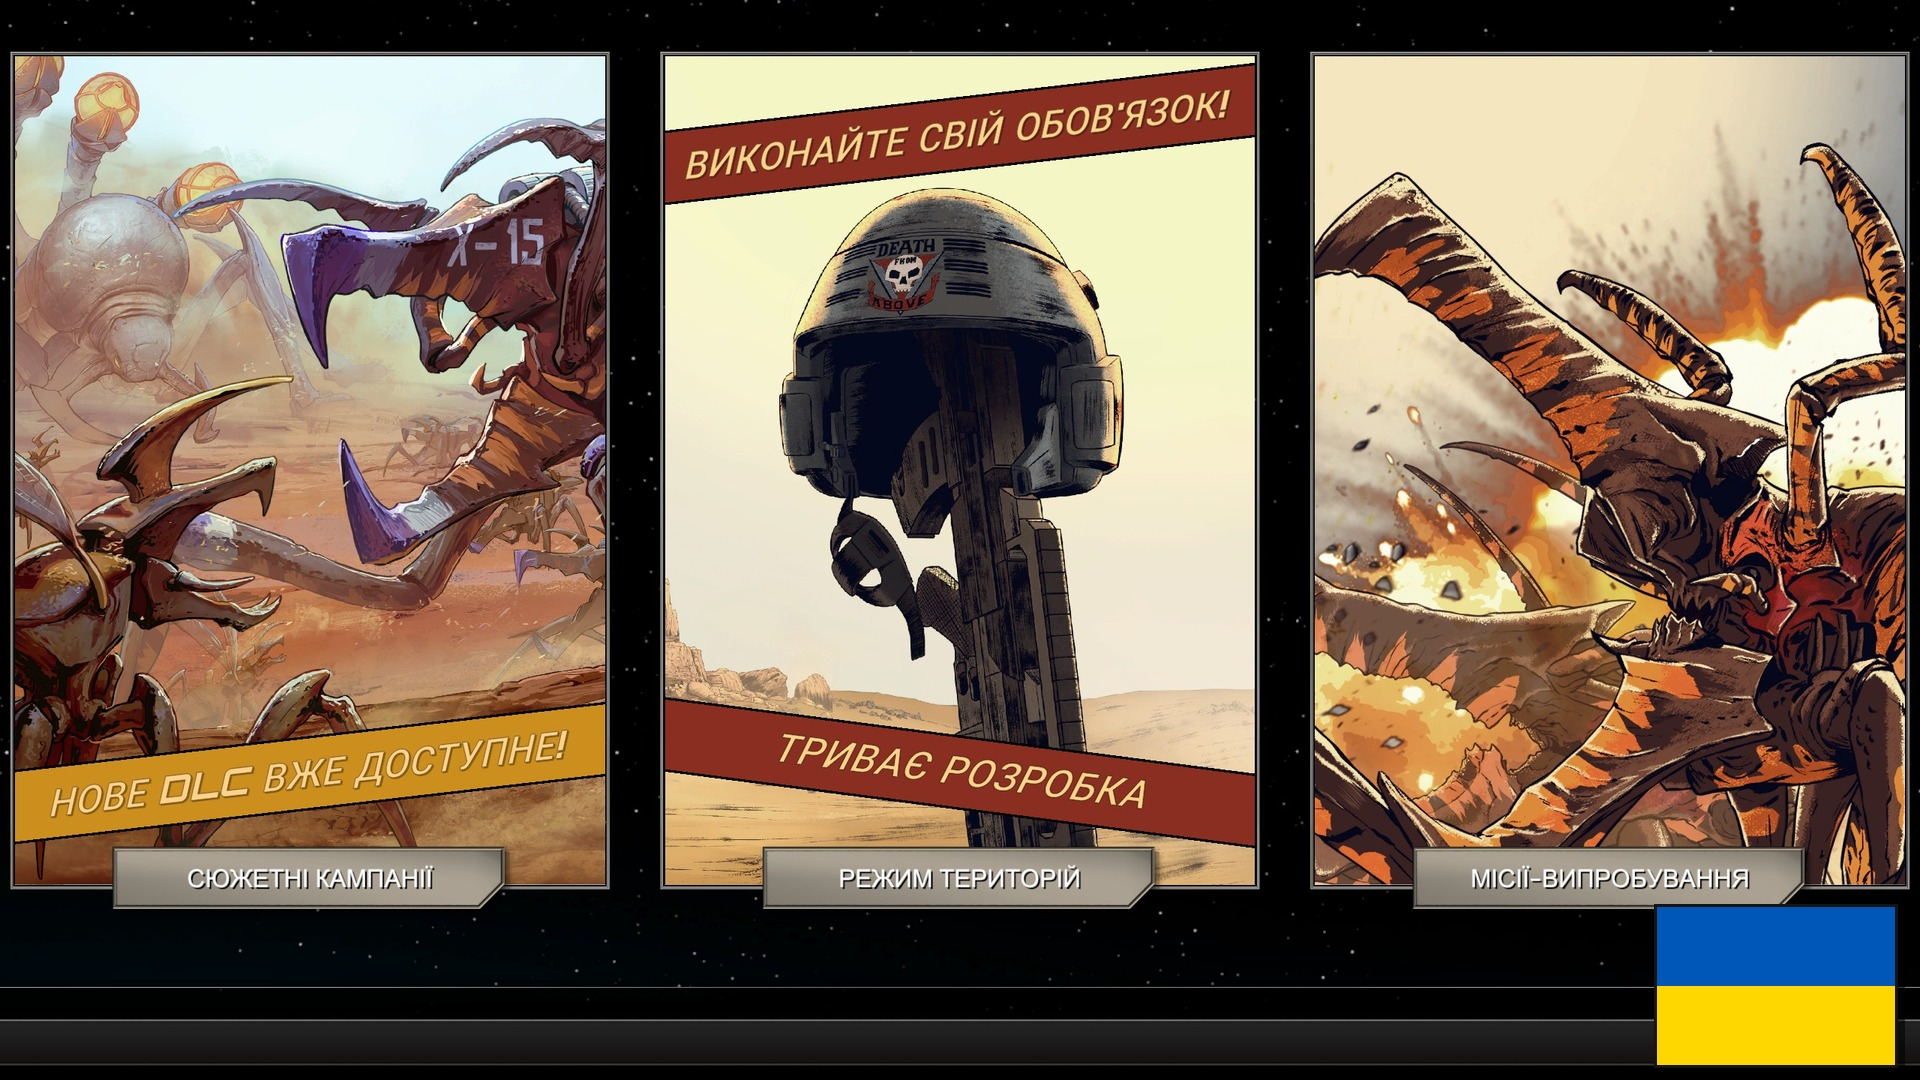
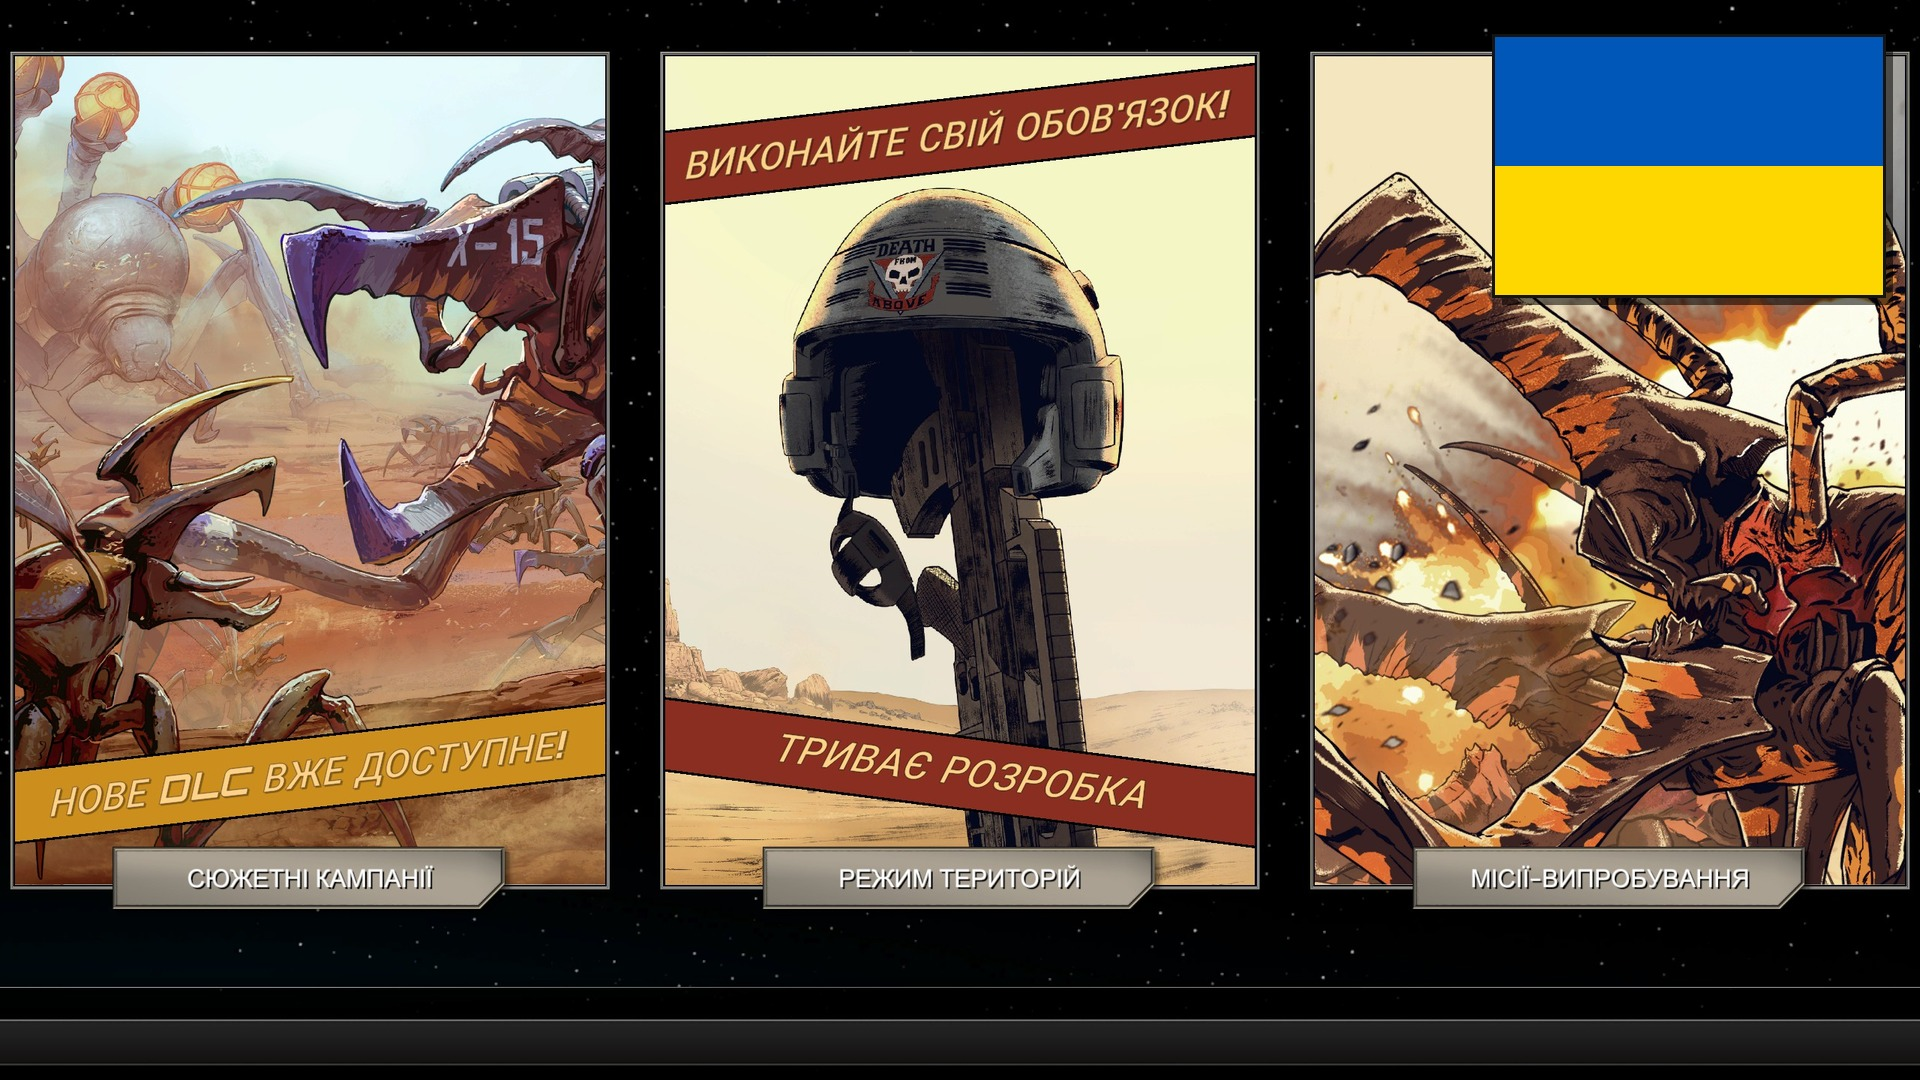
Обкладинка посібника: прапор більший, у правому верхньому куті

Changed region(s): [[0.75, 0.0306, 1.0, 0.3056], [0.8438, 0.825, 1.0, 1.0]]

diff --git a/publish/steam/meta.md b/publish/steam/meta.md
@@ -16,7 +16,7 @@
 | Розділ (Category) | Modding or Configuration |
 | Теги | Modding or Configuration, Localization |
 | Видимість | Public |
-| Обкладинка (preview) | `preview.jpg` — 1920×1080: екран режимів гри (комікс-плакати українською) з прапором України в правому нижньому куті |
+| Обкладинка (preview) | `preview.jpg` — 1920×1080: екран режимів гри (комікс-плакати українською) з прапором України у правому верхньому куті |
 | Скриншоти в посібнику | `../screenshots/01.jpg`, `05.jpg`, `10.jpg`, `13.jpg` |
 
 ## Оновлення
